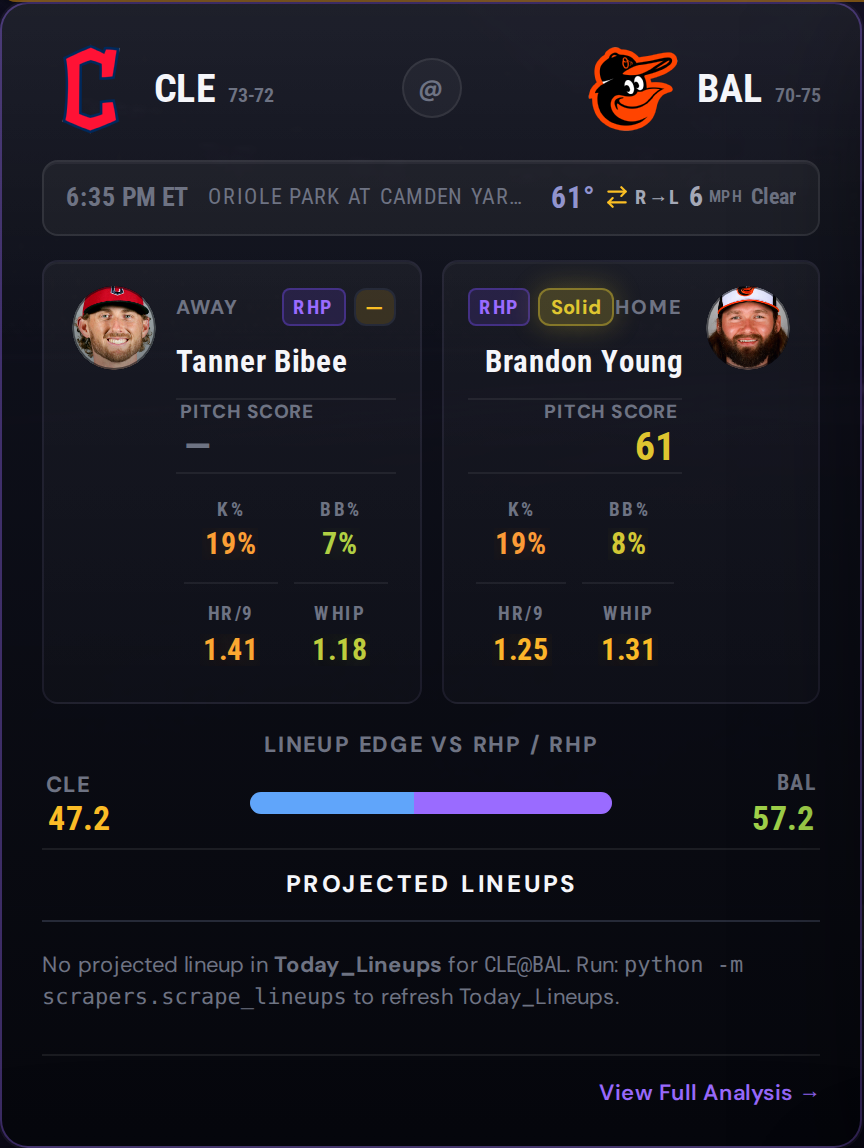
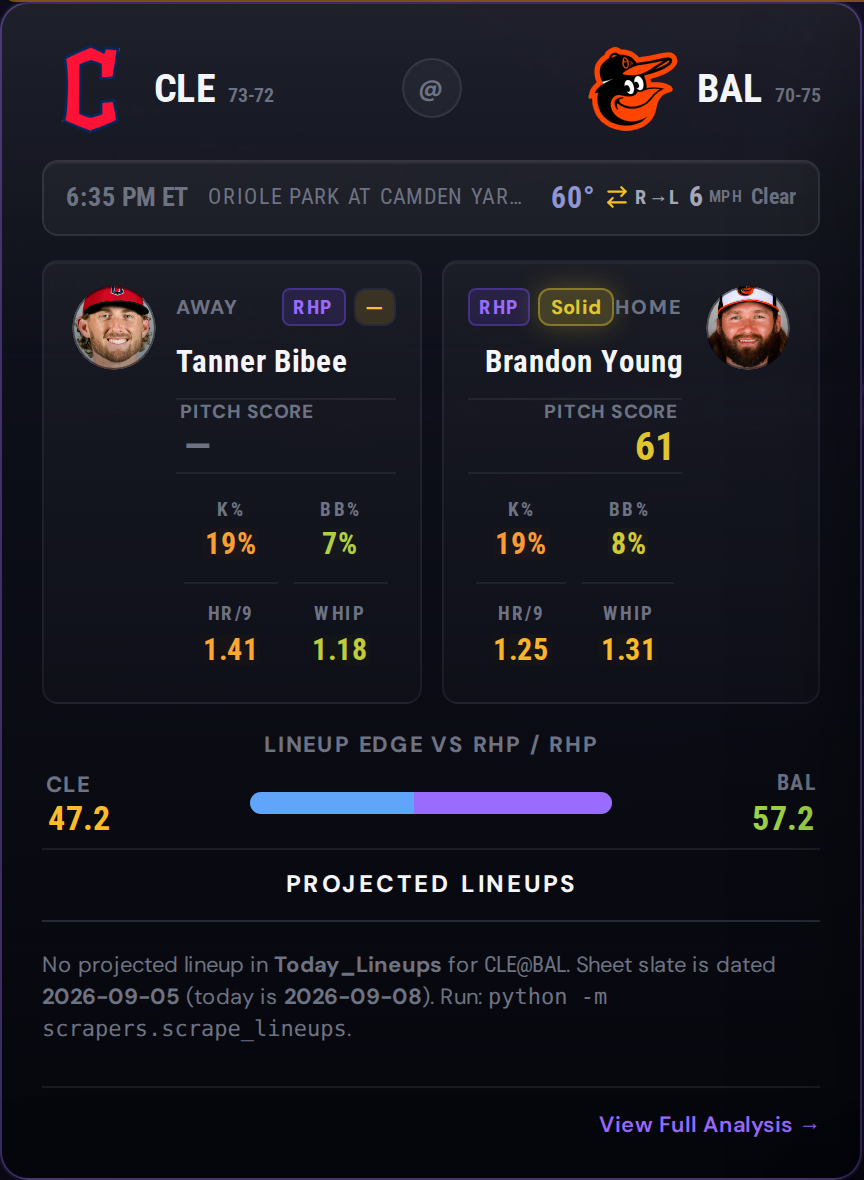
Fix nav stamp regression and land WP4A capture pixels.
Keep integrate_chase_nav.py on the design-layer stamp so check_tokens stays green, and commit the 8766 NOW shots for banner, radar, offense, pitcher, bullpen, and render pitching.

diff --git a/dashboard/matchup_compare.html b/dashboard/matchup_compare.html
@@ -9,9 +9,9 @@
 <title>Chase Analytics — Matchup Comparison</title>
 <link rel="stylesheet" href="mlbma_ui.css?v=20260908a">
 <link rel="stylesheet" href="/design/chase-tokens-v1.css?v=20260908a">
-<link rel="stylesheet" href="mlbma_design_system.css?v=20260630b">
+<link rel="stylesheet" href="mlbma_design_system.css?v=20260908a">
 <link rel="stylesheet" href="theme.css?v=20260908a">
-<link rel="stylesheet" href="chase_nav.css?v=20260701c">
+<link rel="stylesheet" href="chase_nav.css?v=20260908a">
 <link rel="stylesheet" href="matchup_compare.css?v=20260908a">
 <link rel="stylesheet" href="bullpen_usage.css?v=20260908a">
 <link rel="icon" type="image/png" href="assets/chase-icon-filled.png">
@@ -121,6 +121,6 @@ body { min-height: 100vh; color: var(--text, #F4F4F7); }
 <script src="mlbma_ui.js?v=20260908c" data-page="matchup_compare.html"></script>
 <script src="mobile_cardify.js?v=20260908b"></script>
 <script src="matchup_compare.js?v=20260908d"></script>
-<script src="chase_nav.js?v=20260701a"></script>
+<script src="chase_nav.js?v=20260908d"></script>
 </body>
 </html>

diff --git a/dashboard/team_rankings.html b/dashboard/team_rankings.html
@@ -88,11 +88,11 @@ console.log('[VERSION] team_rankings build 20260608b — snapshot boot');
 </script>
 <title>Chase Analytics - Team Rankings v20260604</title>
 <link rel="stylesheet" href="/design/chase-tokens-v1.css?v=20260908a">
-<link rel="stylesheet" href="mlbma_design_system.css?v=20260630b">
+<link rel="stylesheet" href="mlbma_design_system.css?v=20260908a">
 <link rel="stylesheet" href="theme.css?v=20260908a">
 <script src="design_layer_version.js?v=20260908a"></script>
 <link rel="stylesheet" href="mlbma_ui.css?v=20260908a">
-<link rel="stylesheet" href="chase_nav.css?v=20260701c">
+<link rel="stylesheet" href="chase_nav.css?v=20260908a">
 <link rel="stylesheet" href="mlbma_backgrounds.css?v=20260908a">
 <link rel="stylesheet" href="responsive.css?v=20260908a">
 <link rel="icon" type="image/png" href="assets/chase-icon-filled.png">
@@ -403,6 +403,6 @@ setTimeout(function() {
   setTimeout(hardenTeamRankingsUi, 1200);
 })();
 </script>
-<script src="chase_nav.js?v=20260701a" defer></script>
+<script src="chase_nav.js?v=20260908d" defer></script>
 </body>
 </html>

diff --git a/dashboard/batter_profile.html b/dashboard/batter_profile.html
@@ -6,9 +6,9 @@
 <title>Chase Analytics — Batter Profile</title>
 <link rel="stylesheet" href="mlbma_ui.css?v=20260908a">
 <link rel="stylesheet" href="/design/chase-tokens-v1.css?v=20260908a">
-<link rel="stylesheet" href="mlbma_design_system.css?v=20260630b">
+<link rel="stylesheet" href="mlbma_design_system.css?v=20260908a">
 <link rel="stylesheet" href="theme.css?v=20260908a">
-<link rel="stylesheet" href="chase_nav.css?v=20260701c">
+<link rel="stylesheet" href="chase_nav.css?v=20260908a">
 <link rel="stylesheet" href="team_profile.css?v=20260908a">
 <link rel="stylesheet" href="player_profile_pages.css?v=20260908a">
 <link rel="stylesheet" href="team_profile_lineup_ui.css?v=20260908a">
@@ -147,7 +147,8 @@
   </div>
 </main>
 
-<script src="chase_nav.js?v=20260701a"></script>
+<script src="chase_datastatus.js?v=20260908d"></script>
+<script src="chase_nav.js?v=20260908d"></script>
   <script>
 /* ============================================================
    Batter Profile — rebuilt on the shared design system.

diff --git a/dashboard/bullpen_report.html b/dashboard/bullpen_report.html
@@ -6,9 +6,9 @@
 <title>Chase Analytics — Bullpen Profile</title>
 <link rel="stylesheet" href="mlbma_ui.css?v=20260908a">
 <link rel="stylesheet" href="/design/chase-tokens-v1.css?v=20260908a">
-<link rel="stylesheet" href="mlbma_design_system.css?v=20260630b">
+<link rel="stylesheet" href="mlbma_design_system.css?v=20260908a">
 <link rel="stylesheet" href="theme.css?v=20260908a">
-<link rel="stylesheet" href="chase_nav.css?v=20260701c">
+<link rel="stylesheet" href="chase_nav.css?v=20260908a">
 <link rel="stylesheet" href="team_profile.css?v=20260908a">
 <link rel="stylesheet" href="team_profile_lineup_ui.css?v=20260908a">
 <link rel="stylesheet" href="player_profile_pages.css?v=20260908a">
@@ -970,6 +970,7 @@ document.addEventListener('DOMContentLoaded', function() {
   loadAll();
 });
 </script>
-  <script src="chase_nav.js?v=20260701a"></script>
+  <script src="chase_datastatus.js?v=20260908d"></script>
+<script src="chase_nav.js?v=20260908d"></script>
 </body>
 </html>

diff --git a/dashboard/pitcher_profile.html b/dashboard/pitcher_profile.html
@@ -13,9 +13,9 @@
 </style>
 <link rel="stylesheet" href="mlbma_ui.css?v=20260908a">
 <link rel="stylesheet" href="/design/chase-tokens-v1.css?v=20260908a">
-<link rel="stylesheet" href="mlbma_design_system.css?v=20260630b">
+<link rel="stylesheet" href="mlbma_design_system.css?v=20260908a">
 <link rel="stylesheet" href="theme.css?v=20260908a">
-<link rel="stylesheet" href="chase_nav.css?v=20260701c">
+<link rel="stylesheet" href="chase_nav.css?v=20260908a">
 <link rel="stylesheet" href="team_profile.css?v=20260908a">
 <link rel="stylesheet" href="player_profile_pages.css?v=20260908a">
 <link rel="stylesheet" href="team_profile_lineup_ui.css?v=20260908a">
@@ -1813,6 +1813,7 @@ document.addEventListener('DOMContentLoaded', function() {
 });
 </script>
 <!-- pitcher-profile build: 20260604a -->
-  <script src="chase_nav.js?v=20260701a"></script>
+  <script src="chase_datastatus.js?v=20260908d"></script>
+<script src="chase_nav.js?v=20260908d"></script>
 </body>
 </html>

diff --git a/dashboard/index.html b/dashboard/index.html
@@ -2607,9 +2607,9 @@ body.view-research .ca-lab { display: block; }
 
 </style>
 <link rel="stylesheet" href="mlbma_ui.css?v=20260908a">
-<link rel="stylesheet" href="mlbma_design_system.css?v=20260630b">
+<link rel="stylesheet" href="mlbma_design_system.css?v=20260908a">
 <link rel="stylesheet" href="theme.css?v=20260908a">
-<link rel="stylesheet" href="chase_nav.css?v=20260701c">
+<link rel="stylesheet" href="chase_nav.css?v=20260908a">
 <link rel="stylesheet" href="landing_dashboard.css?v=20260908a">
 <link rel="stylesheet" href="research_lab.css?v=20260908a">
 <link rel="stylesheet" href="bullpen_usage.css?v=20260908a">
@@ -8663,6 +8663,6 @@ if (document.readyState === 'loading') {
   <script src="mlbma_access.js?v=20260611b"></script>
   <script src="mlbma_auth.js?v=20260611b"></script>
   <script src="mlbma_auth_ui.js?v=20260611f"></script>
-  <script src="chase_nav.js?v=20260701a"></script>
+  <script src="chase_nav.js?v=20260908d"></script>
 </body>
 </html>

diff --git a/dashboard/glossary.html b/dashboard/glossary.html
@@ -53,9 +53,9 @@ body{color:var(--text);font-family:var(--font);font-size:16.5px;line-height:1.65
 .gloss-section-block .ca-section-head{margin-bottom:14px}
 </style>
 <link rel="stylesheet" href="mlbma_ui.css?v=20260908a">
-<link rel="stylesheet" href="mlbma_design_system.css?v=20260630b">
+<link rel="stylesheet" href="mlbma_design_system.css?v=20260908a">
 <link rel="stylesheet" href="theme.css?v=20260908a">
-<link rel="stylesheet" href="chase_nav.css?v=20260701c">
+<link rel="stylesheet" href="chase_nav.css?v=20260908a">
 <script src="mlbma_config.js?v=20260606c"></script>
 <script src="mlbma_assets.js?v=20260908c"></script>
 <script src="mlbma_icons.js?v=20260612b"></script>
@@ -291,6 +291,7 @@ document.addEventListener('DOMContentLoaded', function() {
   }
 });
 </script>
-  <script src="chase_nav.js?v=20260701a"></script>
+  <script src="chase_datastatus.js?v=20260908d"></script>
+<script src="chase_nav.js?v=20260908d"></script>
 </body>
 </html>

diff --git a/dashboard/team_profile.html b/dashboard/team_profile.html
@@ -9,9 +9,9 @@
 <title>Chase Analytics — Team Profile</title>
 <link rel="stylesheet" href="mlbma_ui.css?v=20260908a">
 <link rel="stylesheet" href="/design/chase-tokens-v1.css?v=20260908a">
-<link rel="stylesheet" href="mlbma_design_system.css?v=20260630b">
+<link rel="stylesheet" href="mlbma_design_system.css?v=20260908a">
 <link rel="stylesheet" href="theme.css?v=20260908a">
-<link rel="stylesheet" href="chase_nav.css?v=20260701c">
+<link rel="stylesheet" href="chase_nav.css?v=20260908a">
 <link rel="stylesheet" href="landing_dashboard.css?v=20260908a">
 <link rel="stylesheet" href="team_profile.css?v=20260908a">
 <link rel="stylesheet" href="team_profile_lineup_ui.css?v=20260908a">
@@ -2282,6 +2282,6 @@ document.addEventListener('DOMContentLoaded', function() {
   });
 });
 </script>
-  <script src="chase_nav.js?v=20260701a"></script>
+  <script src="chase_nav.js?v=20260908d"></script>
 </body>
 </html>

diff --git a/dashboard/matchup_sheet.html b/dashboard/matchup_sheet.html
@@ -4,10 +4,11 @@
 <meta charset="UTF-8">
 <script>window.location.replace('team_rankings.html' + window.location.search);</script>
   <link rel="stylesheet" href="/design/chase-tokens-v1.css?v=20260908a">
-  <link rel="stylesheet" href="mlbma_design_system.css?v=20260630b">
-<link rel="stylesheet" href="chase_nav.css?v=20260701c">
+  <link rel="stylesheet" href="mlbma_design_system.css?v=20260908a">
+<link rel="stylesheet" href="chase_nav.css?v=20260908a">
   <link rel="icon" type="image/png" href="assets/chase-icon-filled.png">
 </head>
-<body>  <script src="chase_nav.js?v=20260701a"></script>
+<body>  <script src="chase_datastatus.js?v=20260908d"></script>
+<script src="chase_nav.js?v=20260908d"></script>
 </body>
 </html>

diff --git a/dashboard/mlbma_design_system.css b/dashboard/mlbma_design_system.css
@@ -1843,8 +1843,8 @@ h1.ca-page-title {
   background: var(--text-3);
   box-shadow: 0 0 8px var(--ca-brand);
 }
-.ca-datastatus[data-state="ok"] .ca-datastatus-dot { background: var(--c-elite); }
-.ca-datastatus[data-state="stale"] .ca-datastatus-dot { background: var(--c-poor); }
+.ca-datastatus[data-state="ok"] .ca-datastatus-dot { background: var(--green); }
+.ca-datastatus[data-state="stale"] .ca-datastatus-dot { background: var(--red); }
 .ca-datastatus[data-state="unknown"] .ca-datastatus-dot { background: var(--text-3); }
 .ca-datastatus-age { color: var(--text); font-weight: 600; }
 .ca-datastatus-source {

diff --git a/scripts/integrate_chase_nav.py b/scripts/integrate_chase_nav.py
@@ -6,6 +6,8 @@ from pathlib import Path
 ROOT = Path(__file__).resolve().parents[1]
 DASH = ROOT / "dashboard"
 NAV_HTML = (DASH / "chase_nav.html").read_text(encoding="utf-8").strip()
+STAMP = (ROOT / "design" / "DESIGN_LAYER_VERSION").read_text(encoding="utf-8").strip()
+NAV_JS_STAMP = "20260908d"
 
 PAGES = [
     "index.html",
@@ -21,11 +23,12 @@ PAGES = [
     "glossary.html",
 ]
 
-CHASE_CSS = '<link rel="stylesheet" href="chase_nav.css?v=20260701c">'
-DESIGN_CSS = '<link rel="stylesheet" href="mlbma_design_system.css?v=20260630b">'
+CHASE_CSS = f'<link rel="stylesheet" href="chase_nav.css?v={STAMP}">'
+DESIGN_CSS = f'<link rel="stylesheet" href="mlbma_design_system.css?v={STAMP}">'
 RESEARCH_CSS = '<link rel="stylesheet" href="research_lab.css">'
 FAVICON = '<link rel="icon" type="image/png" href="assets/chase-icon-filled.png">'
-CHASE_JS = '<script src="chase_nav.js?v=20260701a"></script>'
+CHASE_JS = f'<script src="chase_nav.js?v={NAV_JS_STAMP}"></script>'
+DATASTATUS_JS = f'<script src="chase_datastatus.js?v={NAV_JS_STAMP}"></script>'
 ASSETS_JS = '<script src="mlbma_assets.js"></script>'
 
 NAV_BLOCK_RE = re.compile(
@@ -118,10 +121,22 @@ def ensure_head_links(html: str) -> str:
 
 
 def ensure_body_script(html: str) -> str:
+    html = re.sub(
+        r'src="chase_nav\.js\?v=[^"]*"',
+        f'src="chase_nav.js?v={NAV_JS_STAMP}"',
+        html,
+    )
+    if "chase_datastatus.js" not in html and "chase_nav.js" in html:
+        html = re.sub(
+            r'(<script[^>]*src="chase_nav\.js[^"]*"[^>]*></script>)',
+            DATASTATUS_JS + r"\n\1",
+            html,
+            count=1,
+        )
     if "chase_nav.js" in html:
         return html
     if "</body>" in html:
-        return html.replace("</body>", f"  {CHASE_JS}\n</body>", 1)
+        return html.replace("</body>", f"  {DATASTATUS_JS}\n  {CHASE_JS}\n</body>", 1)
     return html
 
 

diff --git a/docs/artifact-parity/PARITY.md b/docs/artifact-parity/PARITY.md
@@ -1,27 +1,27 @@
 # Content-engine artifact pixel parity (NOW)
 
-**Captured:** 2026-09-08  
+**Captured:** 2026-09-08 (recapture after WP4A guard + render pitching boot)  
 **Server:** `http://127.0.0.1:8766` (do not use 8765)  
 **Tool:** Playwright Chromium, `animation:none` / `transition:none` injected, **two screenshots** per selector (`*-a.png` / `*-b.png`).  
 **BEFORE set:** not available (other-machine WIP / prior captures gone). This is a **NOW** recapture, not a before/after diff.
 
 `lineup_vs_hand` is **not** in `outputs/content_engine.py` `ARTIFACTS` — not captured.
 
-Live Sheets/Supabase (and slate-date guards) **do** change pixels. Treat these as data-dependent.
+Live Sheets/Supabase (and slate-date guards) **do** change pixels. Local capture uses `hubdebug=1` / `capture=1` / `/render/` slate relax plus snapshot boot so selectors can paint when Today_Matchups is dated off the wall clock.
 
 ## Results
 
 | Registry key | Selector | Capture target | Files | Notes |
 |--------------|----------|----------------|-------|--------|
-| `team_rankings` | `.lv-table` | `/dashboard/render/team_rankings.html` | `team_rankings-a.png` `team_rankings-b.png` | Two passes identical (446393 bytes). Dual-render table ≥768px. |
-| `starters_rankings` | `.pl-rank-table` | `/dashboard/index.html#section-research-lab` + `showResearchSubtab('pitching')` | `starters_rankings-a.png` `starters_rankings-b.png` (copies of `starters_rankings_index-*`) | Working same selector. |
-| `starters_rankings` (render route) | `.pl-rank-table` | `/dashboard/render/pitcher_intelligence.html` | — | Route **mounts PitcherLab** and keeps `showResearchSubtab('pitching')`. On this VM `fetchSheetTab('Today_Matchups')` **fails closed**: `stale Today_Matchups slate (wanted 2026-09-08)`, so the starters table is empty (`Projected starters unavailable`). Not a selector mismatch. |
-| `card` | `.hero-matchup-card` | index `#section-matchups-hero` | `card-a.png` `card-b.png` | Passes identical. Pair on this slate paint: CLE@BAL. |
-| `banner` | `.mc-header` | `matchup_compare.html` | — | **Not captured.** Compare page: `No slate row for CLE @ BAL` (same current-slate guard). No `.mc-header` in the empty state. |
-| `radar` | `.mc-radar-duo` | compare | — | Same as banner. |
-| `offense` | `.mc-os-duo` | compare | — | Same as banner. |
-| `pitcher` / `pitcher_rev` | `.mc-lvp-section` | compare `compare=lvP` | — | Same as banner. |
-| `bullpen` / `bullpen_rev` | `.mc-lvb-section` | compare `compare=lvB` | — | Same as banner. |
+| `team_rankings` | `.lv-table` | `/dashboard/render/team_rankings.html` | `team_rankings-a.png` `team_rankings-b.png` | Dual-render table ≥768px. |
+| `starters_rankings` | `.pl-rank-table` | `/dashboard/render/pitcher_intelligence.html?capture=1&hubdebug=1` | `starters_rankings-a.png` `starters_rankings-b.png` | **Painted.** Route mounts PitcherLab; capture boot + SP_Profiles fallback. |
+| `starters_rankings` (index) | `.pl-rank-table` | `/dashboard/index.html#section-research-lab` + `showResearchSubtab('pitching')` | `starters_rankings_index-*` | Working same selector. |
+| `card` | `.hero-matchup-card` | index `#section-matchups-hero` | `card-a.png` `card-b.png` | Hero pair on this run: CLE@BAL. |
+| `banner` | `.mc-header` | `matchup_compare.html?hubdebug=1&snapshot=1` | `banner-a.png` `banner-b.png` | Resolved to CHC@MIA via compare/slate pick. |
+| `radar` | `.mc-radar-duo` | compare | `radar-a.png` `radar-b.png` | Same game. |
+| `offense` | `.mc-os-duo` | compare | `offense-a.png` `offense-b.png` | Same game. |
+| `pitcher` / `pitcher_rev` | `.mc-lvp-section` | compare `compare=lvP` | `pitcher-a.png` `pitcher-b.png` | Same game. |
+| `bullpen` / `bullpen_rev` | `.mc-lvb-section` | compare `compare=lvB` | `bullpen-a.png` `bullpen-b.png` | Same game. |
 
 Log: `capture-log.json`. Script: `scripts/capture_artifact_parity.py`.
 
@@ -31,5 +31,3 @@ Log: `capture-log.json`. Script: `scripts/capture_artifact_parity.py`.
 python3 -m http.server 8766   # if not already up; do not kill 8765
 PYTHONIOENCODING=utf-8 python3 scripts/capture_artifact_parity.py
 ```
-
-When `Today_Matchups` matches the pipeline slate day, the render pitching route and compare selectors should populate without code changes.
